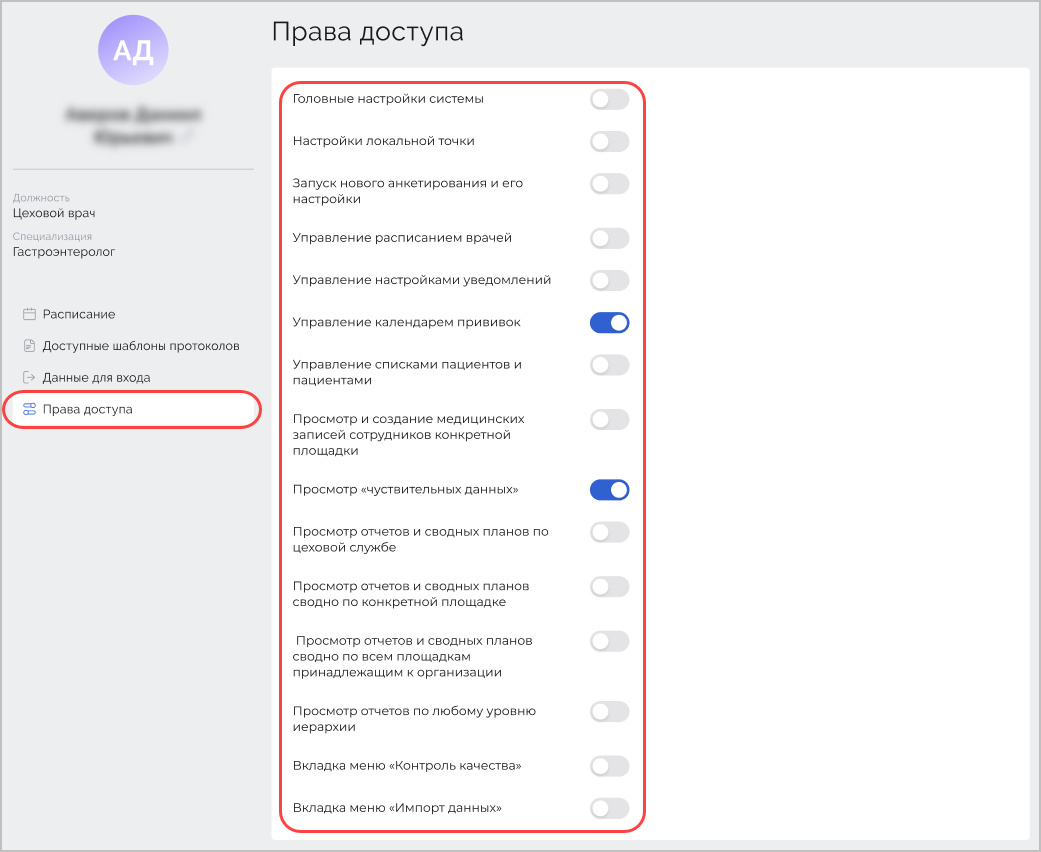
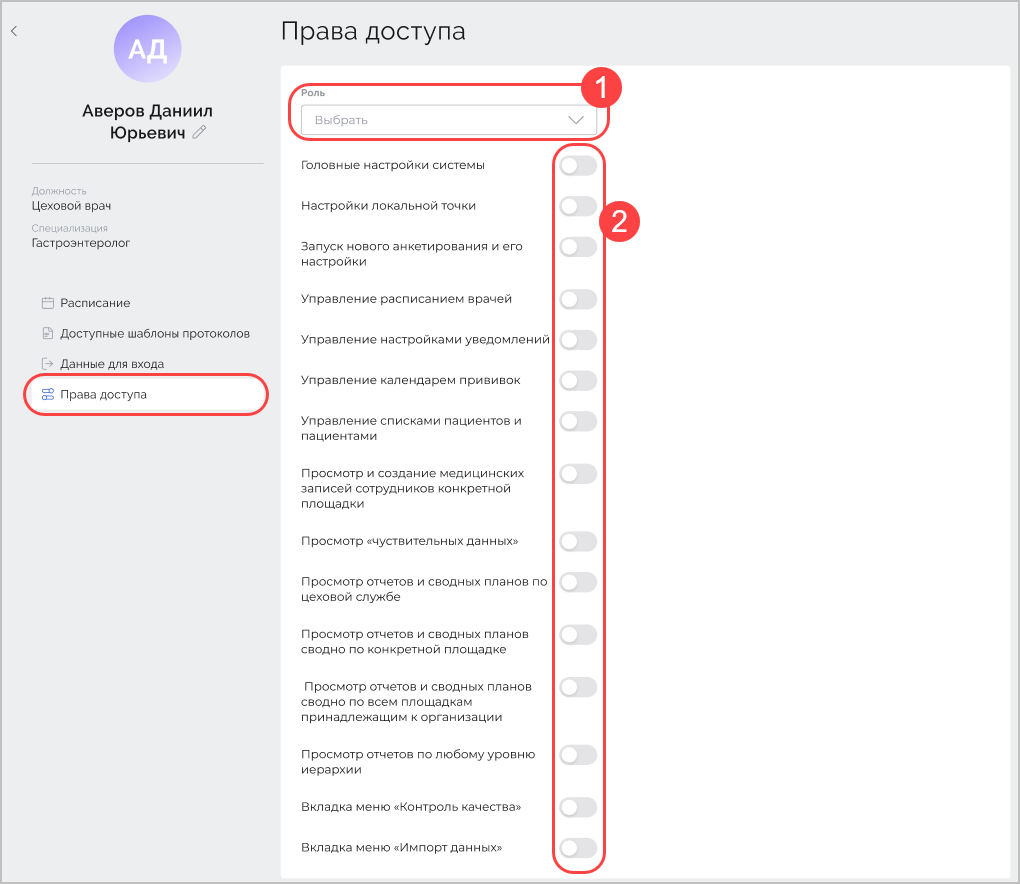
Обновление раздела "Настройки"

diff --git a/РП Периметр-ПМ/perimetr_pm.md b/РП Периметр-ПМ/perimetr_pm.md
@@ -728,13 +728,13 @@
 
 ## Настройки
 
-Раздел **Настройки** обеспечивает возможность работы с данными медицинского персонала, а именно: 
+Раздел **Настройки** обеспечивает возможность работы с данными пользователей системы, а именно: 
 
-- Настройку стартовой анкеты для новых сотрудников;
-- Настройку расписания конкретного медицинского  работника;
-- Выбор доступных шаблонов протоколов;
-- Изменение данных для входа;
-- Изменение прав доступа.
+- настройку стартовой анкеты для новых сотрудников;
+- настройку расписания конкретного медицинского  работника;
+- выбор доступных шаблонов протоколов;
+- изменение данных для входа;
+- изменение прав доступа.
 
 Для перехода в раздел **Настройки** нажмите соответствующую кнопку в левом меню. Откроется раздел, содержащий вкладки **Стартовая анкета** и **Медперсонал**:
 
@@ -744,7 +744,7 @@
 
 После добавления нового сотрудника предприятия для него формируется ссылка на прохождение первого анкетирования.
 
-Каждый медицинский работник имеет возможность настройки анкетирования, а именно указание способа получения ссылки на прохождение анкетирования сотрудниками предприятия и ограничение количества дней на заполнение анкеты:
+Каждый пользователь системы имеет возможность настройки анкетирования, а именно указание способа получения ссылки на прохождение анкетирования сотрудниками предприятия и ограничение количества дней на заполнение анкеты:
 
 ![](img/nastr8.png)
 
@@ -752,7 +752,7 @@
 
 ### Настройка расписания сотрудника
 
-Для каждого медицинского работника можно настроить расписание его рабочего дня. Расписание разбито на определенные периоды, каждый из которых может собственный уникальный график работы.
+Для каждого медицинского работника необходимо настроить расписание его рабочего дня. Расписание разбито на определенные периоды, каждый из которых может собственный уникальный график работы.
 
 Для создания нового расписания, на вкладке **Медперсонал** кликните по записи с данными медицинского работника:
 
@@ -760,7 +760,7 @@
 
 Откроется карточка медицинского работка. По умолчанию будет выбран раздел **Расписание**.
 
-Укажите длительность приема медицинским работником (1). В зависимости от указанного значения будет рассчитано количество пациентов, возможных для записи, за рабочий день медицинского сотрудника. В блоке, содержащим информацию по графику работы, задайте временной период, в течение которого будет актуален данный график работы медицинского работника (2). 
+Укажите длительность приема медицинским работником (1). В зависимости от указанного значения будет рассчитано количество пациентов, возможных для записи на рабочий день медицинского сотрудника. В блоке, содержащим информацию по графику работы, задайте временной период, в течение которого будет актуален данный график работы медицинского работника (2):
 
 ![](img/nastr3.png)
 
@@ -782,9 +782,17 @@
 
 ![](img/nastr11.png)
 
-Автоматически, будет сформирован календарь медицинского работника, отображающий рабочие и выходные дни. 
+Автоматически, будет сформирован календарь медицинского работника, отображающий рабочие и выходные дни. После заполнения всей необходимой информации нажмите кнопку **Сохранить**. 
 
-После заполнения всей необходимой информации нажмите кнопку **Сохранить**. 
+Для удаления расписания нажмите кнопку **Удалить**:
+
+![](img/nastr14.png)
+
+В окне подтверждения также нажмите кнопку **Удалить**:
+
+![](img/nastr15.png)
+
+Расписание будет удалено.
 
 ### Выбор доступных шаблонов протоколов
 
@@ -794,7 +802,11 @@
 
 ![](img/nastr5.png)
 
-Для добавления нового протокола приема в строке поиска введите его наименование и в окне с предложенными результатами выберите необходимый протокол. Добавленные шаблоны протоколов отобразятся под стройкой поиска:
+Для добавления нового протокола приема установите курсор в строку поиска и начните вводить название протокола. В окне с предложенными результатами выберите необходимый протокол:
+
+![](img/nastr13.png)
+
+ Добавленные шаблоны протоколов отобразятся под стройкой поиска:
 
 ![](img/nastr12.png)
 
@@ -804,21 +816,23 @@
 
 ### Изменение данных для входа
 
-Для авторизации в системе каждый медицинский работник использует логин и пароль. Соответственно, после добавления нового медицинского работника ему необходимо создать пару в виде логина и пароля. В качестве логина обычно указывается адрес электронной почты. Пароль формируется в соответствии с требованиями информационной безопасности предприятия.
+Для авторизации в системе каждый пользователь системы использует логин и пароль. Соответственно, после добавления данных нового пользователя для него необходимо сформировать учетные данные в виде логина и пароля. В качестве логина обычно указывается адрес электронной почты. Пароль формируется в соответствии с требованиями информационной безопасности предприятия.
 
-Для создания новой учетной записи медицинского работника или для изменения данной информации, в карточке медицинского работника перейдите в раздел **Данные для входа**. В открывшемся окне введите новый логин и/или пароль и нажмите кнопку **Сохранить**:
+Для создания новой учетной записи пользователя системы или её изменения, в карточке медицинского работника перейдите в раздел **Данные для входа**. В открывшемся окне введите новый логин и/или пароль и нажмите кнопку **Сохранить**:
 
 ![](img/nastr6.png)
 
 ### Изменение прав доступа
 
-Для каждого медицинского работника можно установить определенные права доступа к функциональным возможностям системы. Изначально все права отключены по умолчанию.
+Для каждого пользователя системы необходимо установить определенные права доступа к функциональным возможностям системы. По умолчанию все права пользователя системы отключены.
 
-Для настройки прав доступа конкретного медицинского работника в его карточке перейдите в раздел **Права доступа**. Отобразится блок с перечнем доступных возможностей:
+Для настройки прав доступа конкретного пользователя системы в его карточке перейдите в раздел **Права доступа**. Отобразится блок с перечнем доступных возможностей. Укажите роль специалиста (1) в зависимости от выбора которой будут установлены определенные права пользователя (2):
 
 ![](img/nastr7.png)
 
-Для добавления определенного права установите переключатель в положение "Включено" (будет подсвечен синим), справа от соответствующего названия. 
+Для добавления нужного права вручную, установите переключатель в положение "Включено" (будет подсвечен синим), справа от соответствующего названия:
+
+![](img/nastr16.png)
 
 В данном разделе все внесенные изменения сохраняются автоматически.
 
